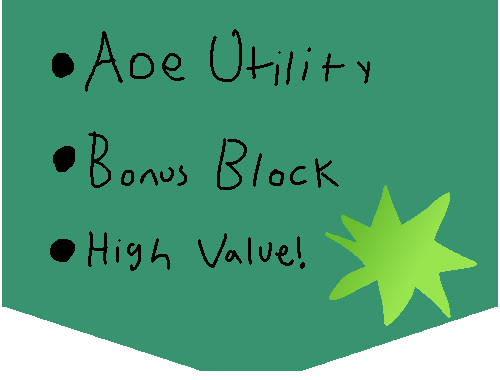
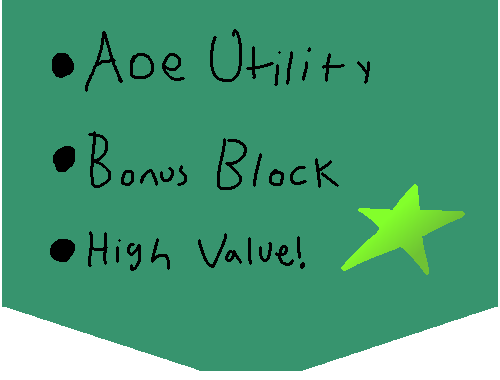
ALL. ART. COMPLETE!

Changed region(s): [[0.63, 0.4921, 0.96, 0.8684]]

diff --git a/src/main/java/theFishing/TheFishing.java b/src/main/java/theFishing/TheFishing.java
@@ -49,7 +49,7 @@ public class TheFishing extends CustomPlayer {
 
 
     public TheFishing(String name, PlayerClass setClass) {
-        super(name, setClass, new CustomEnergyOrb(orbTextures, modID + "Resources/images/char/mainChar/orb/vfx.png", null), new SpineAnimation("fishingResources/images/char/mainChar/NewProject.atlas", "fishingResources/images/char/mainChar/NewProject.json", 1.0F));
+        super(name, setClass, new CustomEnergyOrb(orbTextures, modID + "Resources/images/char/mainChar/orb/vfx.png", null), new SpineAnimation("fishingResources/images/char/mainChar/NewProject.atlas", "fishingResources/images/char/mainChar/NewProject.json", 0.8F));
         initializeClass(null,
                 SHOULDER1,
                 SHOULDER2,
@@ -61,7 +61,7 @@ public class TheFishing extends CustomPlayer {
         dialogY = (drawY + 240.0F * Settings.scale);
 
         AnimationState.TrackEntry e = this.state.setAnimation(0, "Idle", true);
-        e.setTimeScale(0.8F);
+        e.setTimeScale(0.6F);
     }
 
     @Override

diff --git a/src/main/java/theFishing/cards/BeachBoy.java b/src/main/java/theFishing/cards/BeachBoy.java
@@ -3,8 +3,11 @@ package theFishing.cards;
 import com.megacrit.cardcrawl.actions.AbstractGameAction;
 import com.megacrit.cardcrawl.characters.AbstractPlayer;
 import com.megacrit.cardcrawl.monsters.AbstractMonster;
+import theFishing.powers.SnaggedPower;
 
+import static theFishing.FishingMod.STAR_IN_ART;
 import static theFishing.FishingMod.makeID;
+import static theFishing.util.Wiz.applyToEnemy;
 
 public class BeachBoy extends AbstractFishingCard {
     public final static String ID = makeID("BeachBoy");
@@ -16,11 +19,12 @@ public class BeachBoy extends AbstractFishingCard {
         baseMagicNumber = magicNumber = 6;
         isInnate = true;
         selfRetain = true;
+        tags.add(STAR_IN_ART);
     }
 
     public void use(AbstractPlayer p, AbstractMonster m) {
         dmg(m, AbstractGameAction.AttackEffect.FIRE);
-
+        applyToEnemy(m, new SnaggedPower(m, magicNumber));
     }
 
     public void upp() {

diff --git a/src/main/java/theFishing/cards/PlantFlag.java b/src/main/java/theFishing/cards/PlantFlag.java
@@ -5,6 +5,7 @@ import com.megacrit.cardcrawl.characters.AbstractPlayer;
 import com.megacrit.cardcrawl.monsters.AbstractMonster;
 import com.megacrit.cardcrawl.powers.DrawCardNextTurnPower;
 
+import static theFishing.FishingMod.STAR_IN_ART;
 import static theFishing.FishingMod.makeID;
 import static theFishing.util.Wiz.applyToSelf;
 import static theFishing.util.Wiz.topDeck;
@@ -16,6 +17,7 @@ public class PlantFlag extends AbstractFishingCard {
     public PlantFlag() {
         super(ID, 1, CardType.SKILL, CardRarity.COMMON, CardTarget.SELF);
         cardsToPreview = new Flag();
+        tags.add(STAR_IN_ART);
     }
 
     public void use(AbstractPlayer p, AbstractMonster m) {

diff --git a/src/main/java/theFishing/cards/ChocolateChipCookie.java b/src/main/java/theFishing/cards/ChocolateChipCookie.java
@@ -7,6 +7,7 @@ import com.megacrit.cardcrawl.characters.AbstractPlayer;
 import com.megacrit.cardcrawl.monsters.AbstractMonster;
 import com.megacrit.cardcrawl.powers.DexterityPower;
 
+import static theFishing.FishingMod.STAR_IN_ART;
 import static theFishing.FishingMod.makeID;
 import static theFishing.util.Wiz.applyToSelf;
 import static theFishing.util.Wiz.atb;
@@ -20,6 +21,7 @@ public class ChocolateChipCookie extends AbstractFishingCard {
         baseMagicNumber = magicNumber = 4;
         baseSecondMagic = secondMagic = 1;
         exhaust = true;
+        tags.add(STAR_IN_ART);
     }
 
     public void use(AbstractPlayer p, AbstractMonster m) {

diff --git a/src/main/java/theFishing/cards/SeeingStars.java b/src/main/java/theFishing/cards/SeeingStars.java
@@ -5,6 +5,7 @@ import com.megacrit.cardcrawl.characters.AbstractPlayer;
 import com.megacrit.cardcrawl.monsters.AbstractMonster;
 import com.megacrit.cardcrawl.powers.WeakPower;
 
+import static theFishing.FishingMod.STAR_IN_ART;
 import static theFishing.FishingMod.makeID;
 import static theFishing.util.Wiz.applyToEnemy;
 
@@ -16,6 +17,7 @@ public class SeeingStars extends AbstractFishingCard {
         super(ID, 2, CardType.ATTACK, CardRarity.COMMON, CardTarget.ENEMY);
         baseDamage = 5;
         baseMagicNumber = magicNumber = 1;
+        tags.add(STAR_IN_ART);
     }
 
     public void use(AbstractPlayer p, AbstractMonster m) {

diff --git a/src/main/java/theFishing/cards/BeastSlayer.java b/src/main/java/theFishing/cards/BeastSlayer.java
@@ -9,6 +9,7 @@ import com.megacrit.cardcrawl.dungeons.AbstractDungeon;
 import com.megacrit.cardcrawl.monsters.AbstractMonster;
 import com.megacrit.cardcrawl.rooms.MonsterRoomElite;
 
+import static theFishing.FishingMod.STAR_IN_ART;
 import static theFishing.FishingMod.makeID;
 import static theFishing.util.Wiz.atb;
 
@@ -20,6 +21,7 @@ public class BeastSlayer extends AbstractFishingCard {
         super(ID, 1, CardType.ATTACK, CardRarity.RARE, CardTarget.ENEMY);
         baseDamage = 12;
         baseSecondDamage = secondDamage = 25;
+        tags.add(STAR_IN_ART);
     }
 
     public void use(AbstractPlayer p, AbstractMonster m) {

diff --git a/src/main/java/theFishing/cards/AnglerForm.java b/src/main/java/theFishing/cards/AnglerForm.java
@@ -4,6 +4,7 @@ import com.megacrit.cardcrawl.characters.AbstractPlayer;
 import com.megacrit.cardcrawl.monsters.AbstractMonster;
 import theFishing.powers.AnglerFormPower;
 
+import static theFishing.FishingMod.STAR_IN_ART;
 import static theFishing.FishingMod.makeID;
 import static theFishing.util.Wiz.applyToSelf;
 
@@ -14,6 +15,7 @@ public class AnglerForm extends AbstractFishingCard {
     public AnglerForm() {
         super(ID, 3, CardType.POWER, CardRarity.RARE, CardTarget.SELF);
         baseMagicNumber = magicNumber = 2;
+        tags.add(STAR_IN_ART);
     }
 
     public void use(AbstractPlayer p, AbstractMonster m) {

diff --git a/src/main/java/theFishing/cards/VictoryLap.java b/src/main/java/theFishing/cards/VictoryLap.java
@@ -6,6 +6,7 @@ import com.megacrit.cardcrawl.characters.AbstractPlayer;
 import com.megacrit.cardcrawl.monsters.AbstractMonster;
 import theFishing.powers.VictoryLapPower;
 
+import static theFishing.FishingMod.STAR_IN_ART;
 import static theFishing.FishingMod.makeID;
 import static theFishing.util.Wiz.applyToSelf;
 
@@ -16,6 +17,7 @@ public class VictoryLap extends AbstractFishingCard {
     public VictoryLap() {
         super(ID, 1, CardType.POWER, CardRarity.UNCOMMON, CardTarget.SELF);
         cardsToPreview = new Shiv();
+        tags.add(STAR_IN_ART);
     }
 
     public void use(AbstractPlayer p, AbstractMonster m) {

diff --git a/src/main/java/theFishing/cards/Concentrated.java b/src/main/java/theFishing/cards/Concentrated.java
@@ -4,6 +4,7 @@ import com.megacrit.cardcrawl.characters.AbstractPlayer;
 import com.megacrit.cardcrawl.monsters.AbstractMonster;
 import com.megacrit.cardcrawl.powers.BerserkPower;
 
+import static theFishing.FishingMod.STAR_IN_ART;
 import static theFishing.FishingMod.makeID;
 import static theFishing.util.Wiz.applyToSelf;
 
@@ -14,6 +15,7 @@ public class Concentrated extends AbstractFishingCard {
     public Concentrated() {
         super(ID, 3, CardType.POWER, CardRarity.RARE, CardTarget.SELF);
         isEthereal = true;
+        tags.add(STAR_IN_ART);
     }
 
     public void use(AbstractPlayer p, AbstractMonster m) {

diff --git a/src/main/java/theFishing/cards/Sunhat.java b/src/main/java/theFishing/cards/Sunhat.java
@@ -5,6 +5,7 @@ import com.megacrit.cardcrawl.characters.AbstractPlayer;
 import com.megacrit.cardcrawl.monsters.AbstractMonster;
 import com.megacrit.cardcrawl.powers.WeakPower;
 
+import static theFishing.FishingMod.STAR_IN_ART;
 import static theFishing.FishingMod.makeID;
 import static theFishing.util.Wiz.atb;
 
@@ -15,6 +16,7 @@ public class Sunhat extends AbstractFishingCard {
     public Sunhat() {
         super(ID, 1, CardType.SKILL, CardRarity.COMMON, CardTarget.SELF);
         baseBlock = 7;
+        tags.add(STAR_IN_ART);
     }
 
     public void use(AbstractPlayer p, AbstractMonster m) {

diff --git a/src/main/java/theFishing/cards/PickMe.java b/src/main/java/theFishing/cards/PickMe.java
@@ -8,6 +8,7 @@ import com.megacrit.cardcrawl.monsters.AbstractMonster;
 
 import java.util.ArrayList;
 
+import static theFishing.FishingMod.STAR_IN_ART;
 import static theFishing.FishingMod.makeID;
 
 public class PickMe extends AbstractFishingCard implements SpawnModificationCard {
@@ -19,6 +20,7 @@ public class PickMe extends AbstractFishingCard implements SpawnModificationCard
         baseDamage = 9;
         baseBlock = 3;
         isMultiDamage = true;
+        tags.add(STAR_IN_ART);
     }
 
     public void use(AbstractPlayer p, AbstractMonster m) {
